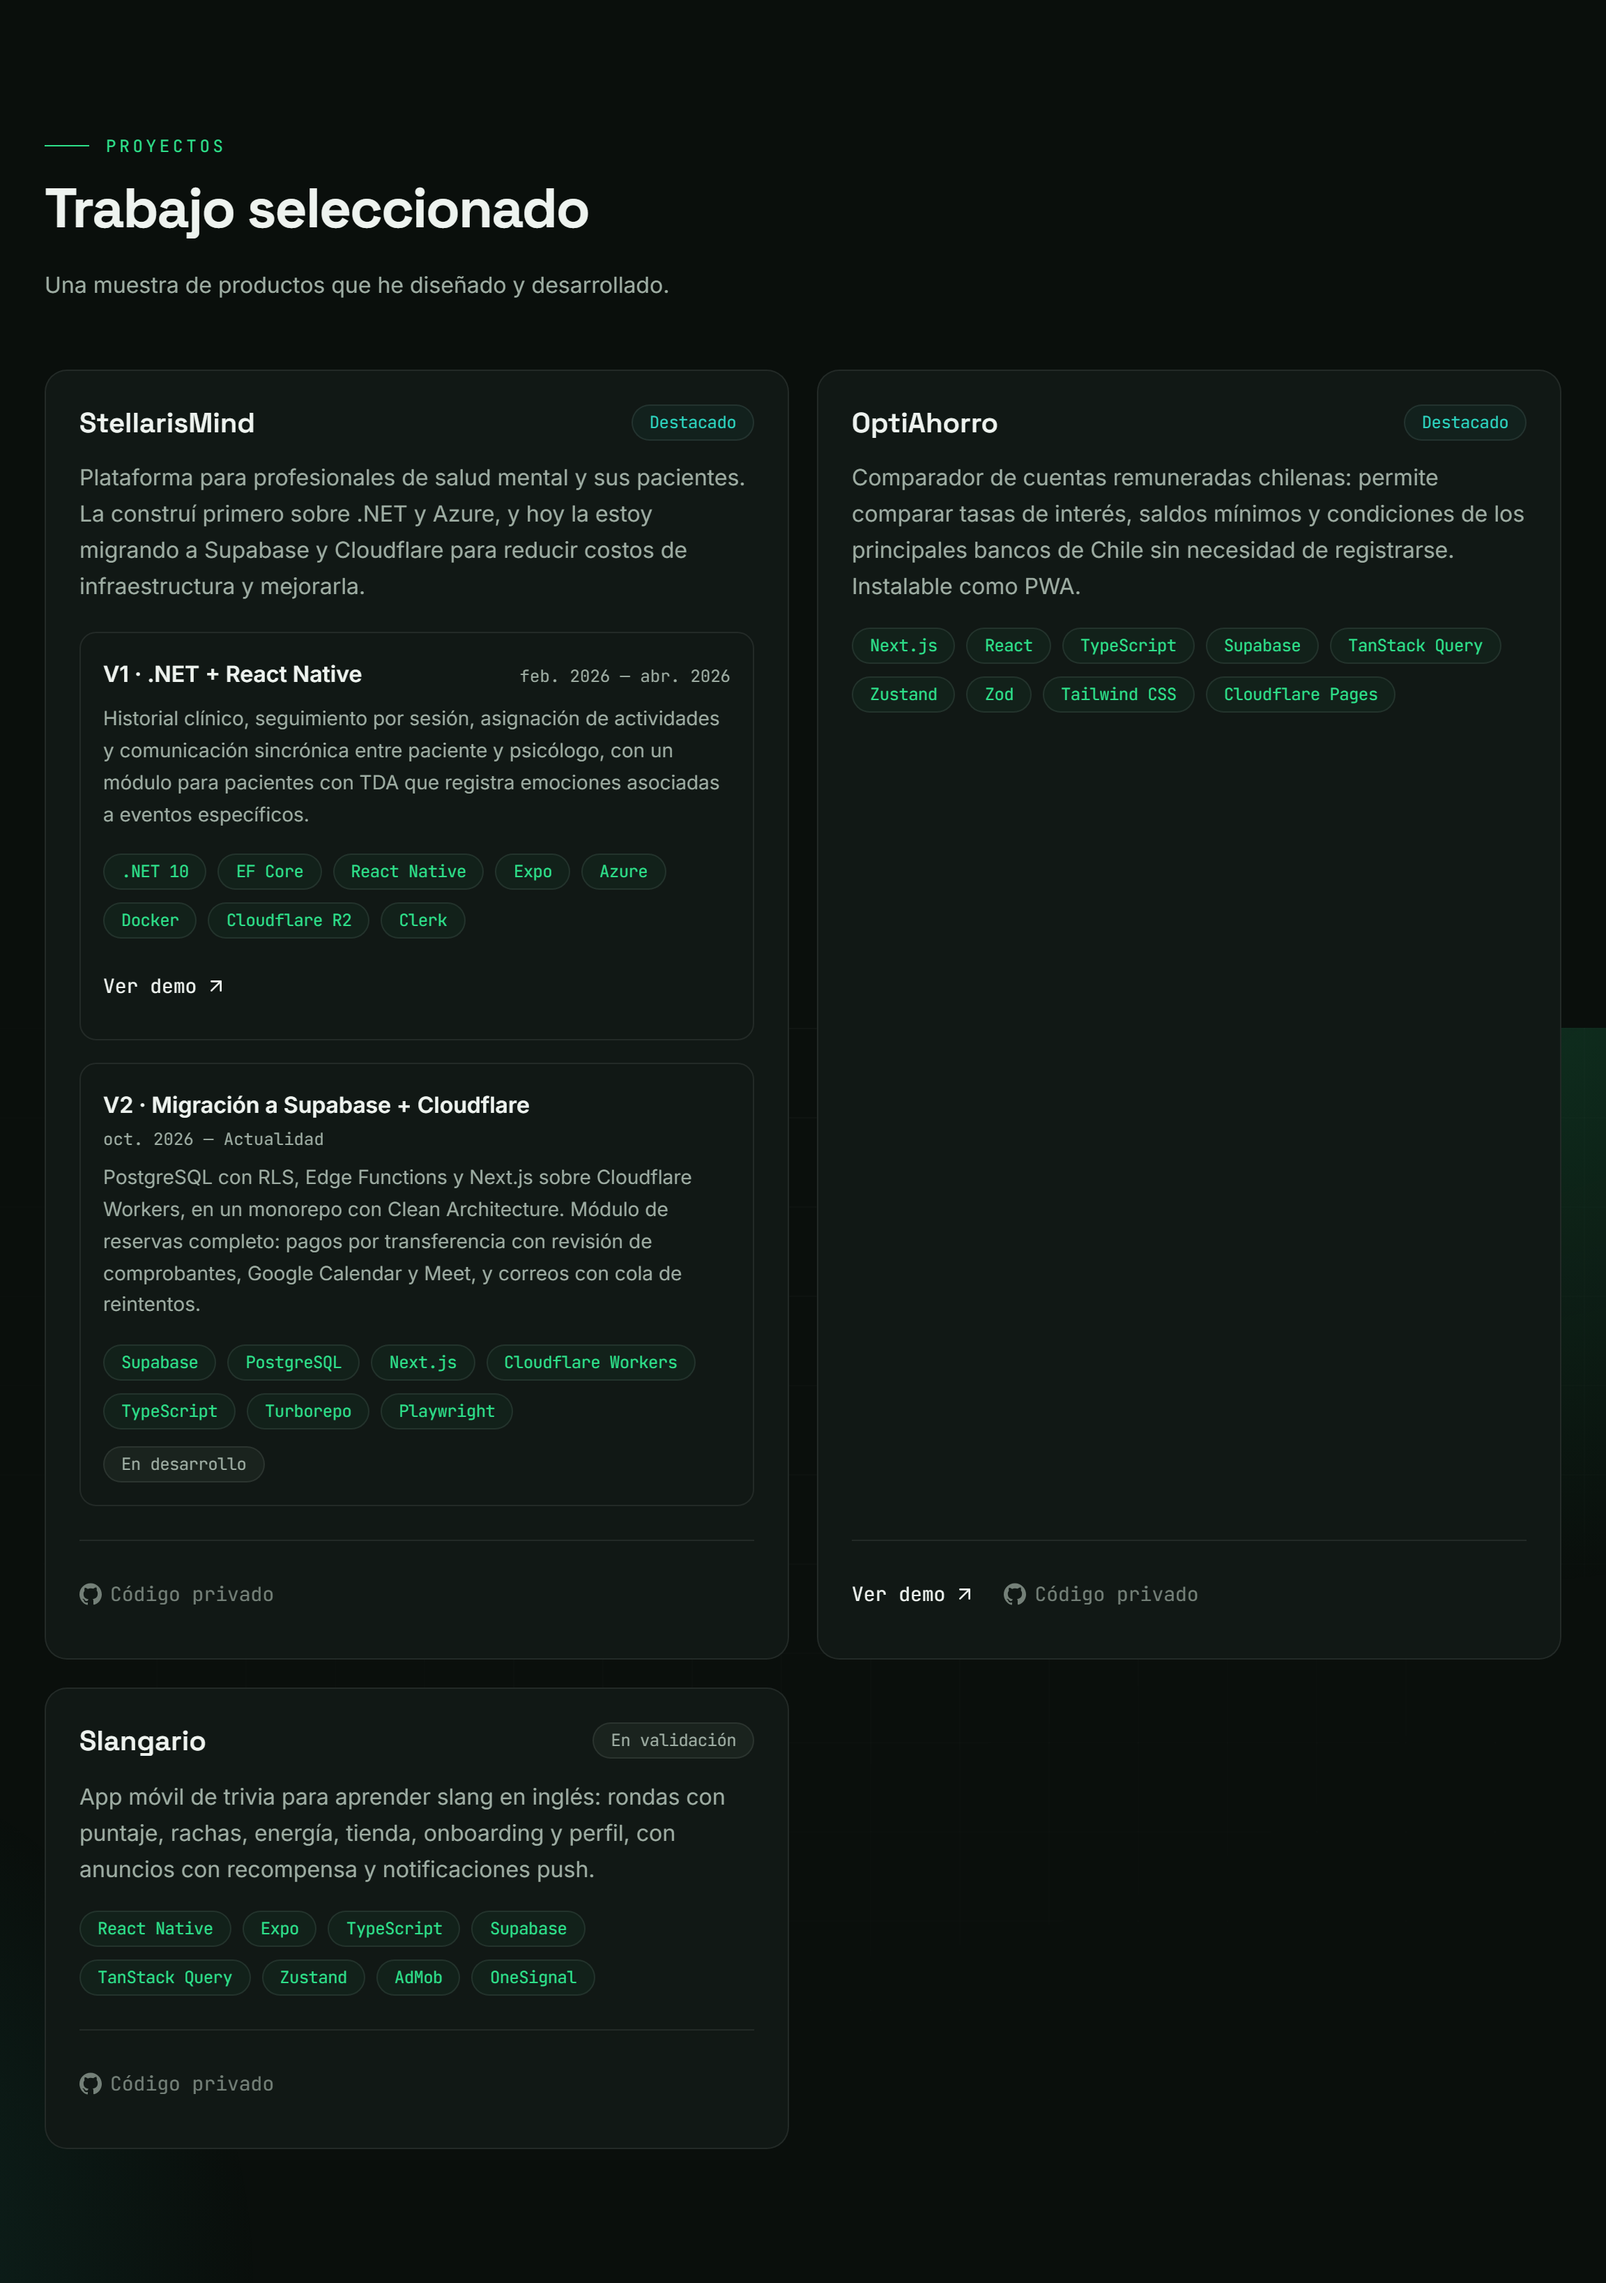
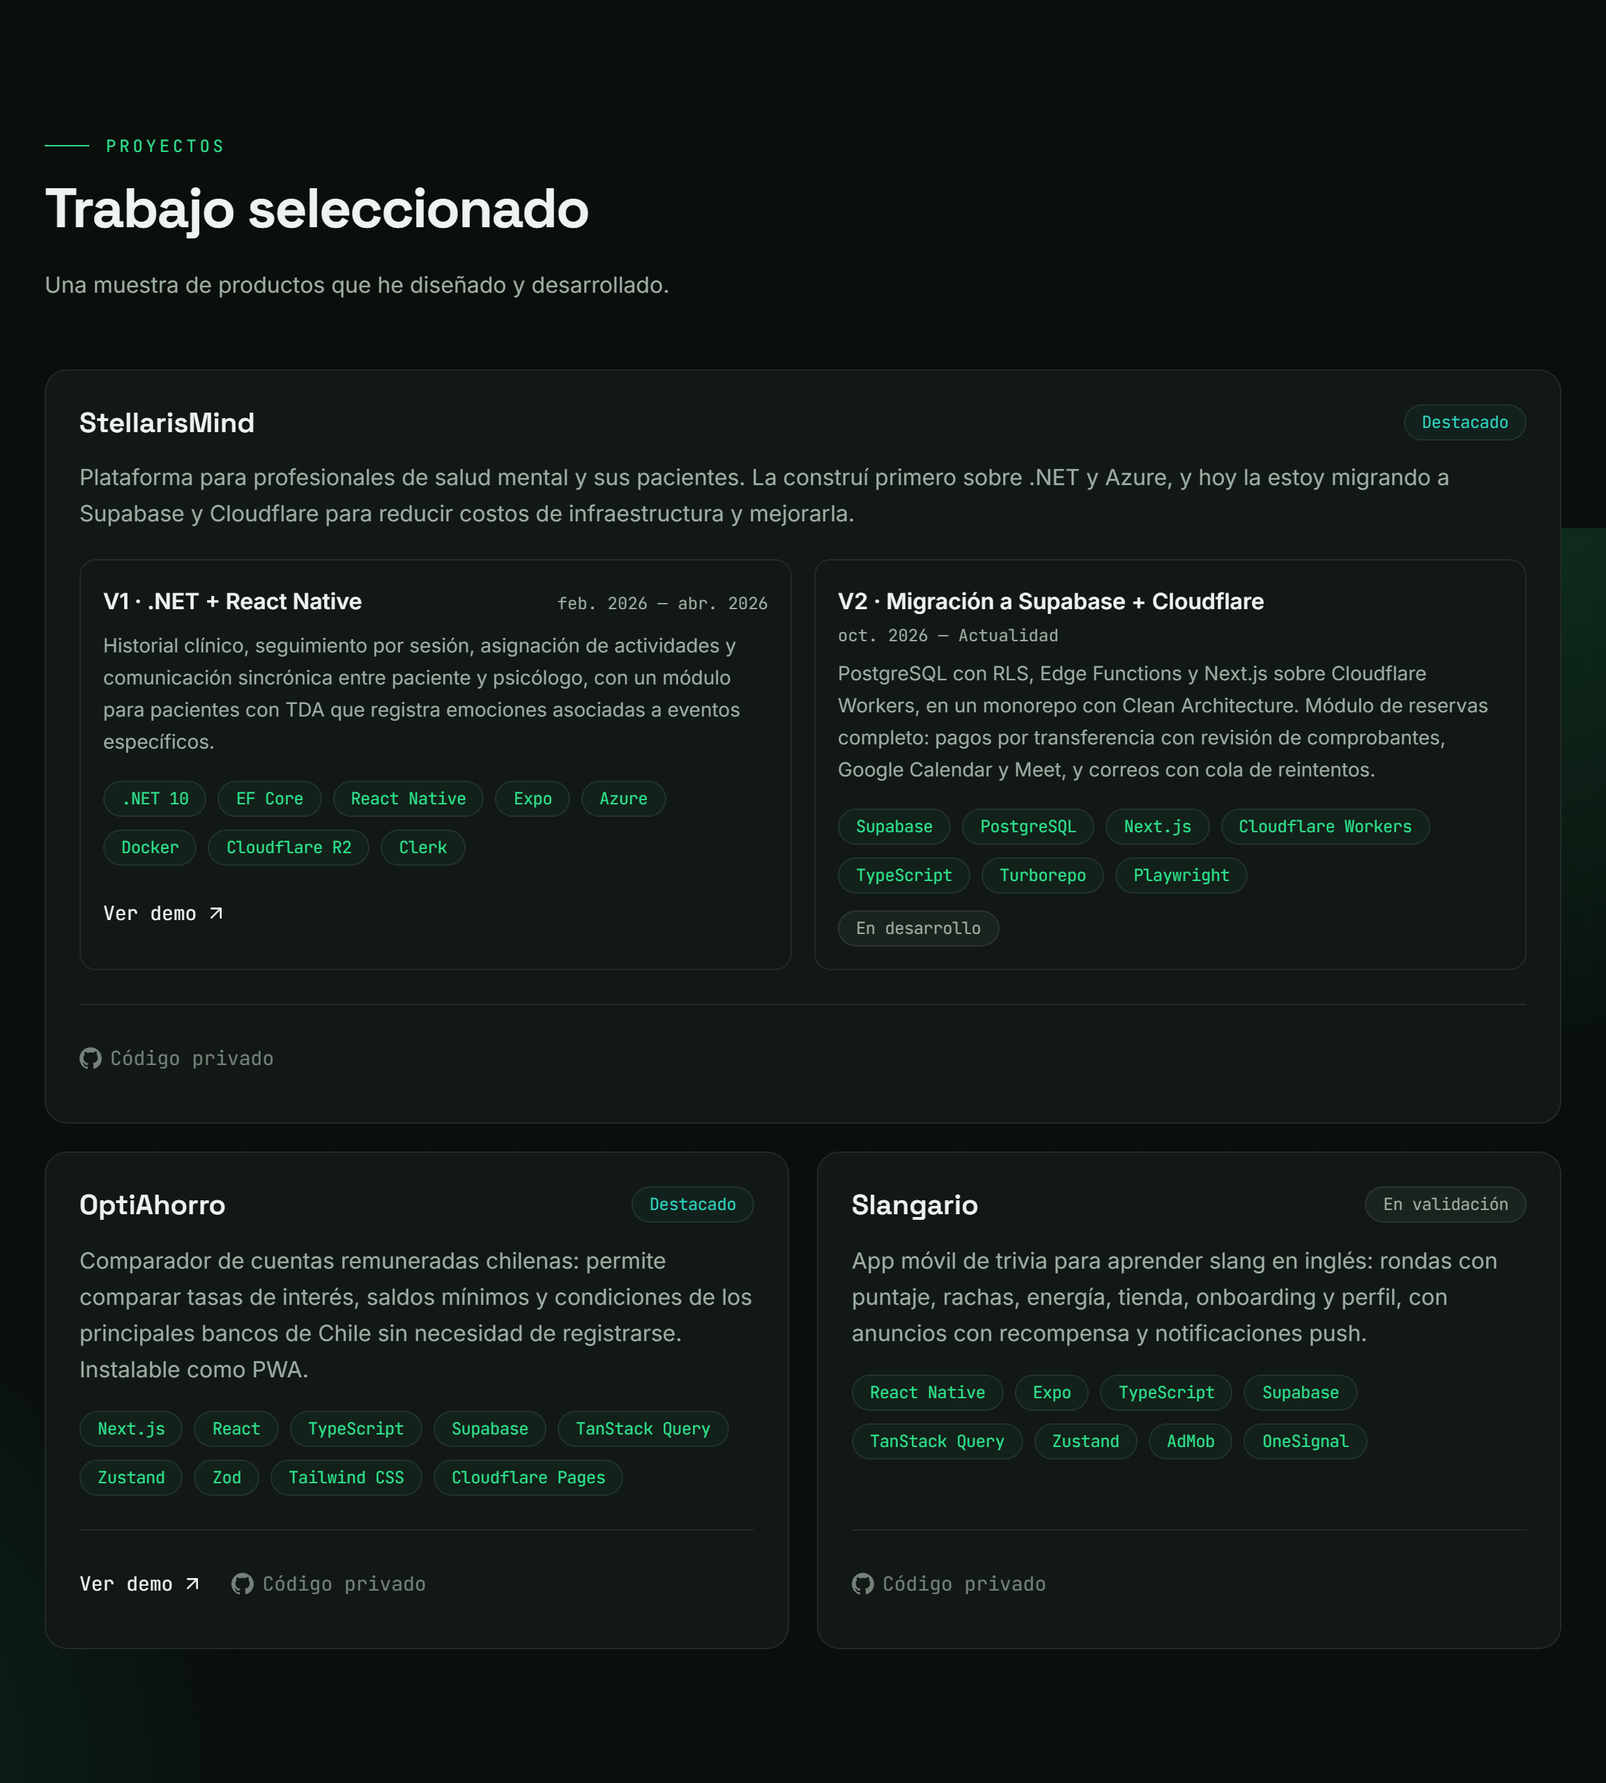
feat(projects): give versioned projects the full row and lay versions side by side

diff --git a/src/components/organisms/ProjectsSection/ProjectsSection.tsx b/src/components/organisms/ProjectsSection/ProjectsSection.tsx
@@ -23,7 +23,14 @@ export async function ProjectsSection({ locale }: { locale: Locale }) {
 
       <div className="mt-12 grid gap-5 md:grid-cols-2">
         {projects[locale].map((project, index) => (
-          <Reveal as="div" key={project.title} delay={index * 0.06}>
+          <Reveal
+            as="div"
+            key={project.title}
+            delay={index * 0.06}
+            // A project with versions is far taller than its neighbours; giving
+            // it the full row keeps the other cards from stretching to match.
+            className={project.versions ? "md:col-span-2" : undefined}
+          >
             <ProjectCard project={project} locale={locale} />
           </Reveal>
         ))}

diff --git a/src/components/molecules/ProjectCard/ProjectCard.tsx b/src/components/molecules/ProjectCard/ProjectCard.tsx
@@ -70,7 +70,7 @@ export async function ProjectCard({ project, locale }: ProjectCardProps) {
       </Text>
 
       {project.versions && (
-        <ol className="mt-5 flex flex-col gap-4">
+        <ol className="mt-5 grid gap-4 md:grid-cols-2">
           {project.versions.map((version) => (
             <li
               key={version.label}
